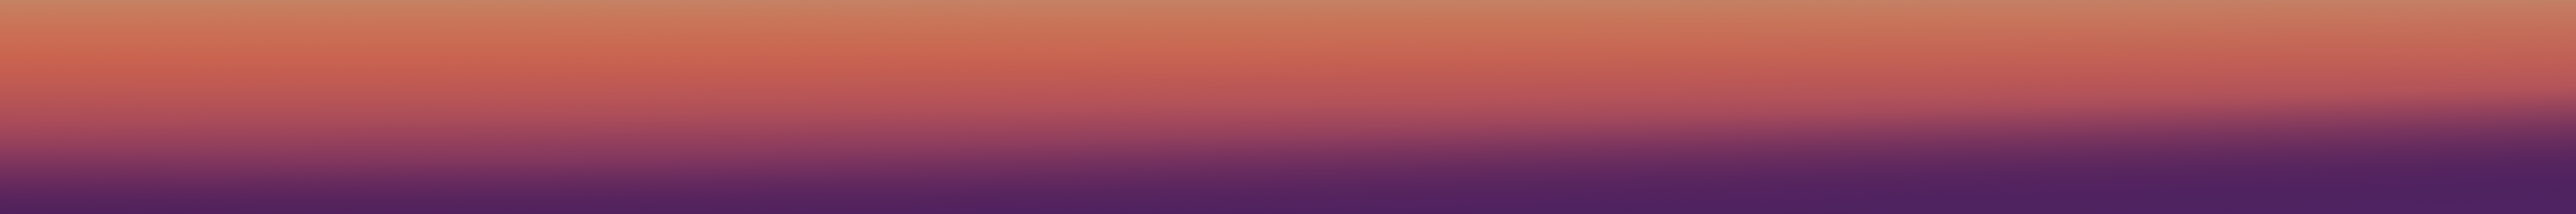
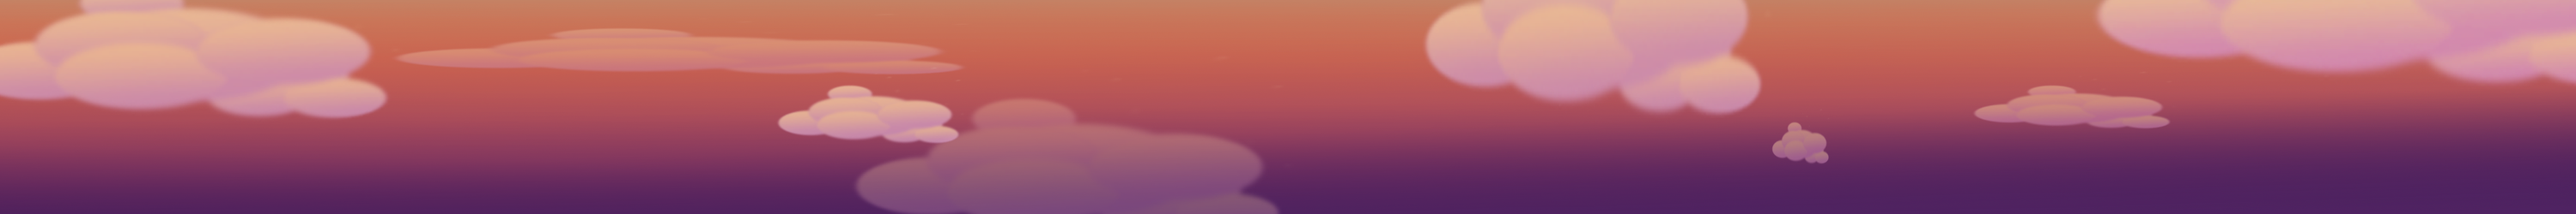
change background

diff --git a/app/router.js b/app/router.js
@@ -11,17 +11,12 @@ export class Router {
     console.log("listening in the router")
     $(() => {
       $('body').keydown((event) => {
-        var up = 38
         var left = 37
         var right = 39
         var down =  40
 
         switch(event.keyCode)
         {
-          case up:
-          that.controller.move('up')
-          break;
-
           case down:
           that.controller.move('down')
           break;
@@ -32,6 +27,15 @@ export class Router {
 
           case right:
           that.controller.move('right')
+          break;
+        }
+      })
+      $('body').keyup((event) => {
+        var up = 38
+
+        switch(event.keyCode) {
+          case up:
+          that.controller.move('up')
           break;
         }
       })

diff --git a/config.js b/config.js
@@ -16,15 +16,15 @@ System.config({
     "build.js": [
       "app/boot.js",
       "app/router.js",
-      "npm:babel-runtime@5.8.34/helpers/create-class",
       "npm:babel-runtime@5.8.34/helpers/class-call-check",
+      "npm:babel-runtime@5.8.34/helpers/create-class",
+      "npm:jquery@2.2.0",
       "app/controller.js",
       "npm:babel-runtime@5.8.34/core-js/object/define-property",
-      "npm:jquery@2.2.0",
-      "app/playerModel.js",
+      "npm:jquery@2.2.0/dist/jquery",
       "app/view.js",
       "npm:core-js@1.2.6/library/fn/object/define-property",
-      "npm:jquery@2.2.0/dist/jquery",
+      "app/playerModel.js",
       "npm:core-js@1.2.6/library/modules/$"
     ]
   },

diff --git a/app.css b/app.css
@@ -6,14 +6,16 @@
   position: relative;
 }
 
-/*.trees {
-  background-image: url('./images/background-2.png'); entire first layer to go here: ground, immediate background ct;
-  background-position: center center;
+.trees {
+  width: 1000px;
+  height: 250px;
+  background-image: url('./images/background-3.png'); entire first layer to go here: ground, immediate background ct;
+  background-position: 0% 0%;
   position: absolute;
   left: 195px;
   top: 70px;
-  z-index: -1;
-}*/
+  z-index: -2;
+}
 
 .background {
   width: 1000px;
@@ -24,7 +26,7 @@
   position: absolute;
   left: 195px;
   top: 70px;
-  z-index: -2;
+  z-index: -1;
 }
 
 .navigation {

diff --git a/app/playerModel.js b/app/playerModel.js
@@ -5,7 +5,7 @@ export class playerModel {
     this.positionY = 0
     this.velocityX = 0
     this.velocityY = 0
-    this.jumpAcceleration = 13
+    this.jumpAcceleration = 20
     this.gravity = - 5
     setInterval(updatePhysics,100, this)
   }
@@ -27,6 +27,7 @@ export class playerModel {
 
 function jump(player) {
   player.velocityY += player.jumpAcceleration
+  // player.velocityX += player.jumpAcceleration / 10
 }
 
 function updatePhysics(player) {

diff --git a/app/view.js b/app/view.js
@@ -8,6 +8,7 @@ export class View {
     }
       else {
           $('.background').css('background-position',`${playerModel.positionX - 46}% ${playerModel.positionY}%`)
+          $('.trees').css('background-position', `${playerModel.positionX - 46}% ${playerModel.positionY}%` )
     }
   }
 }
